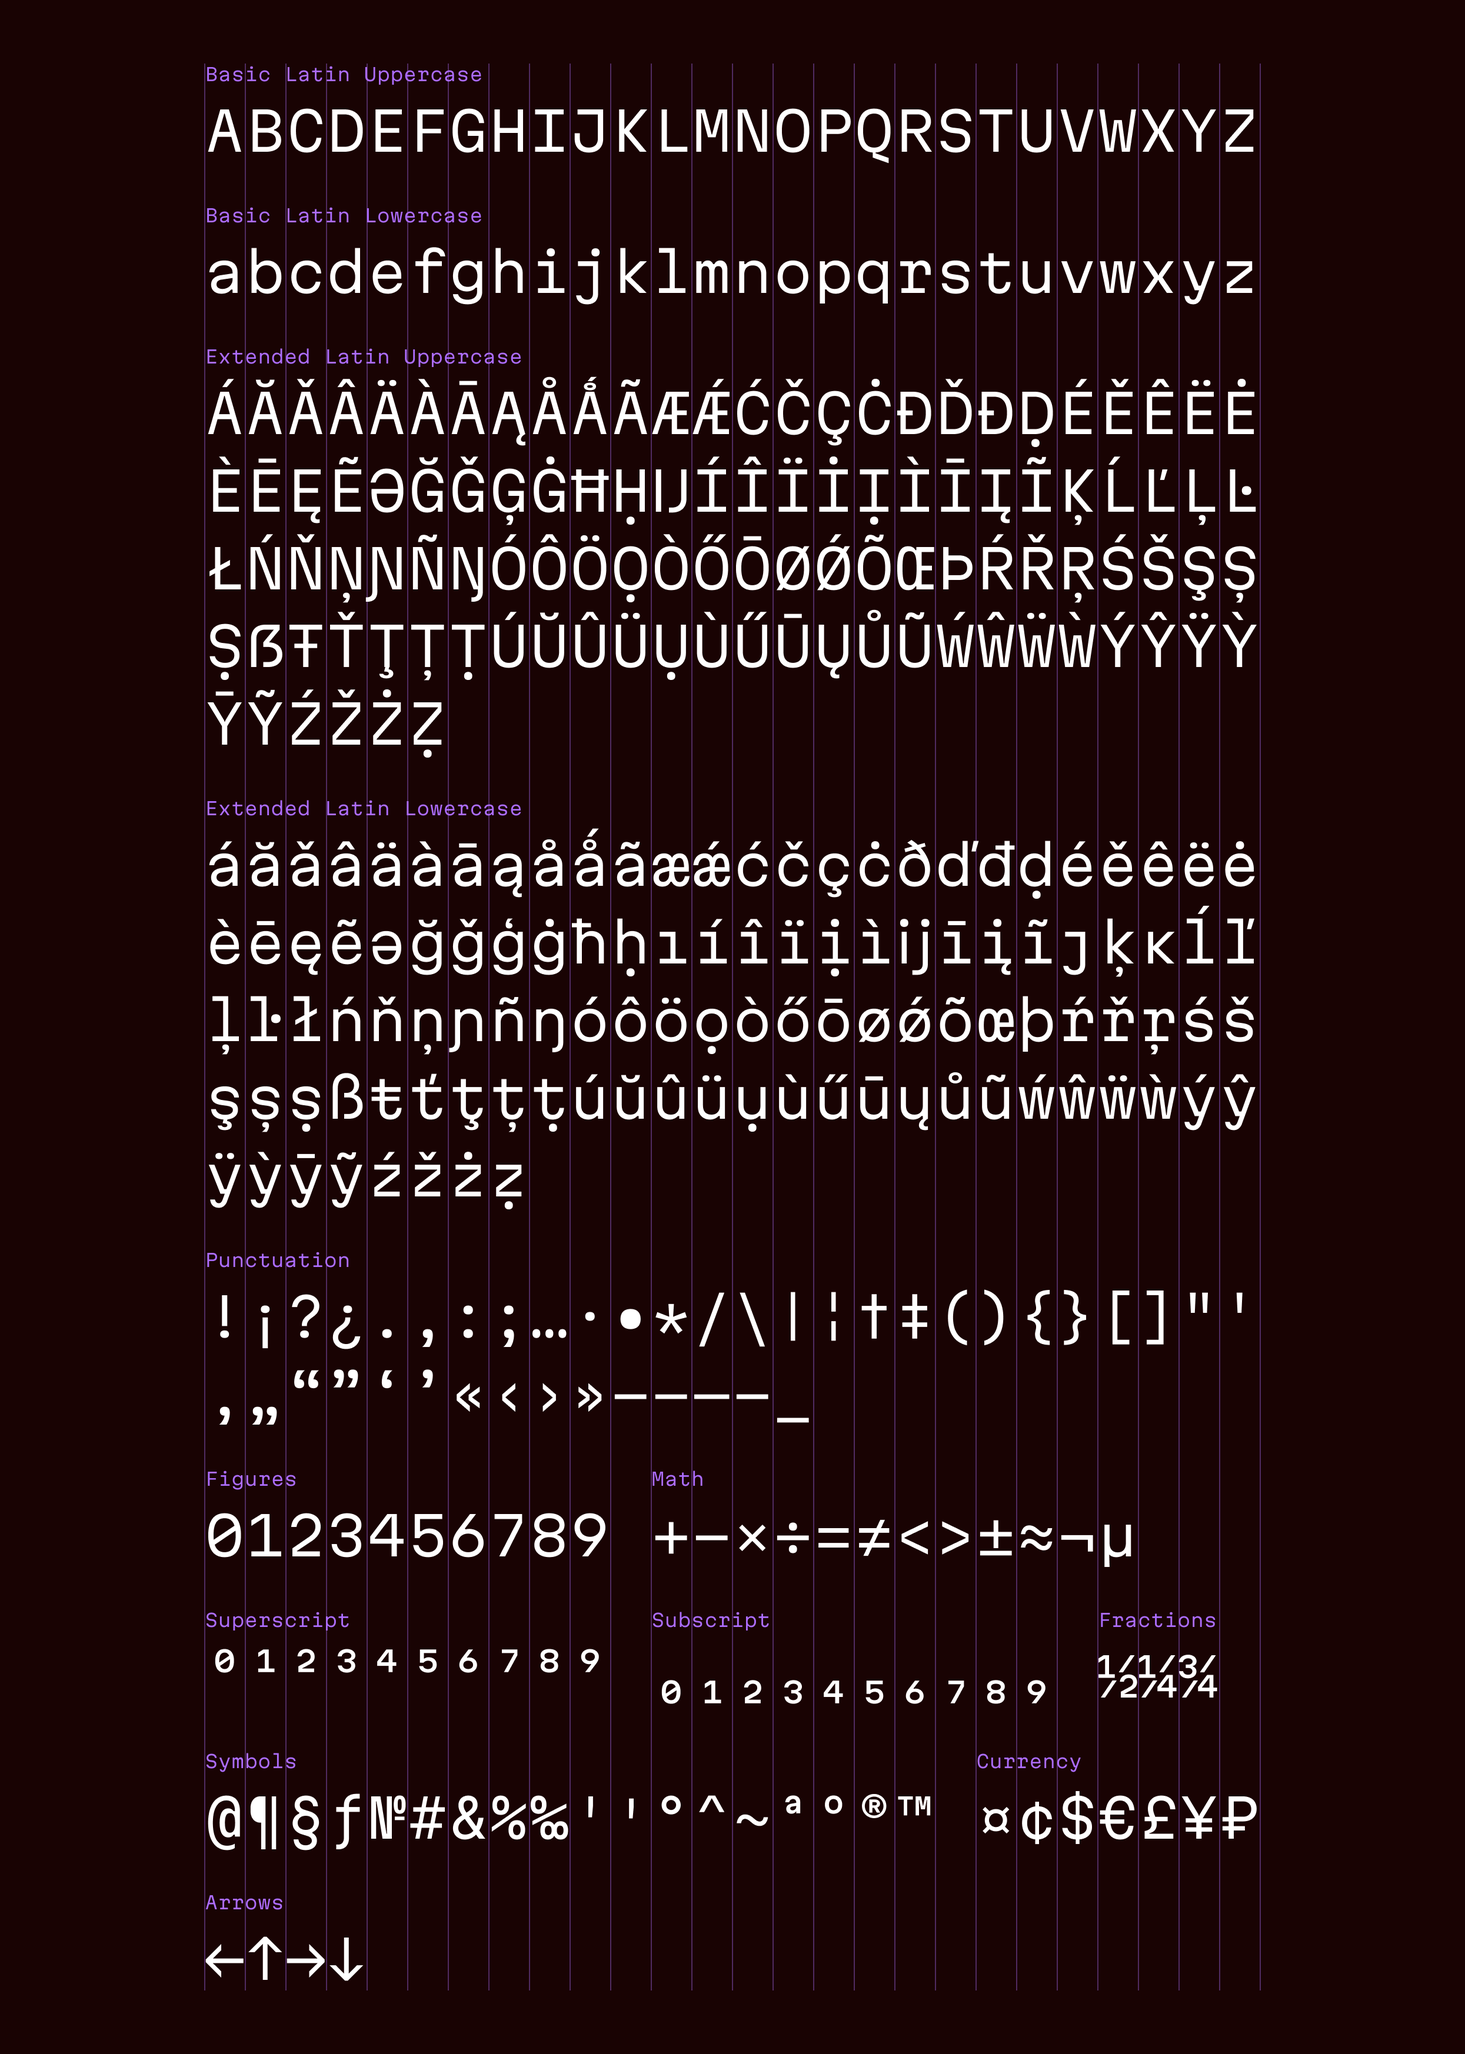
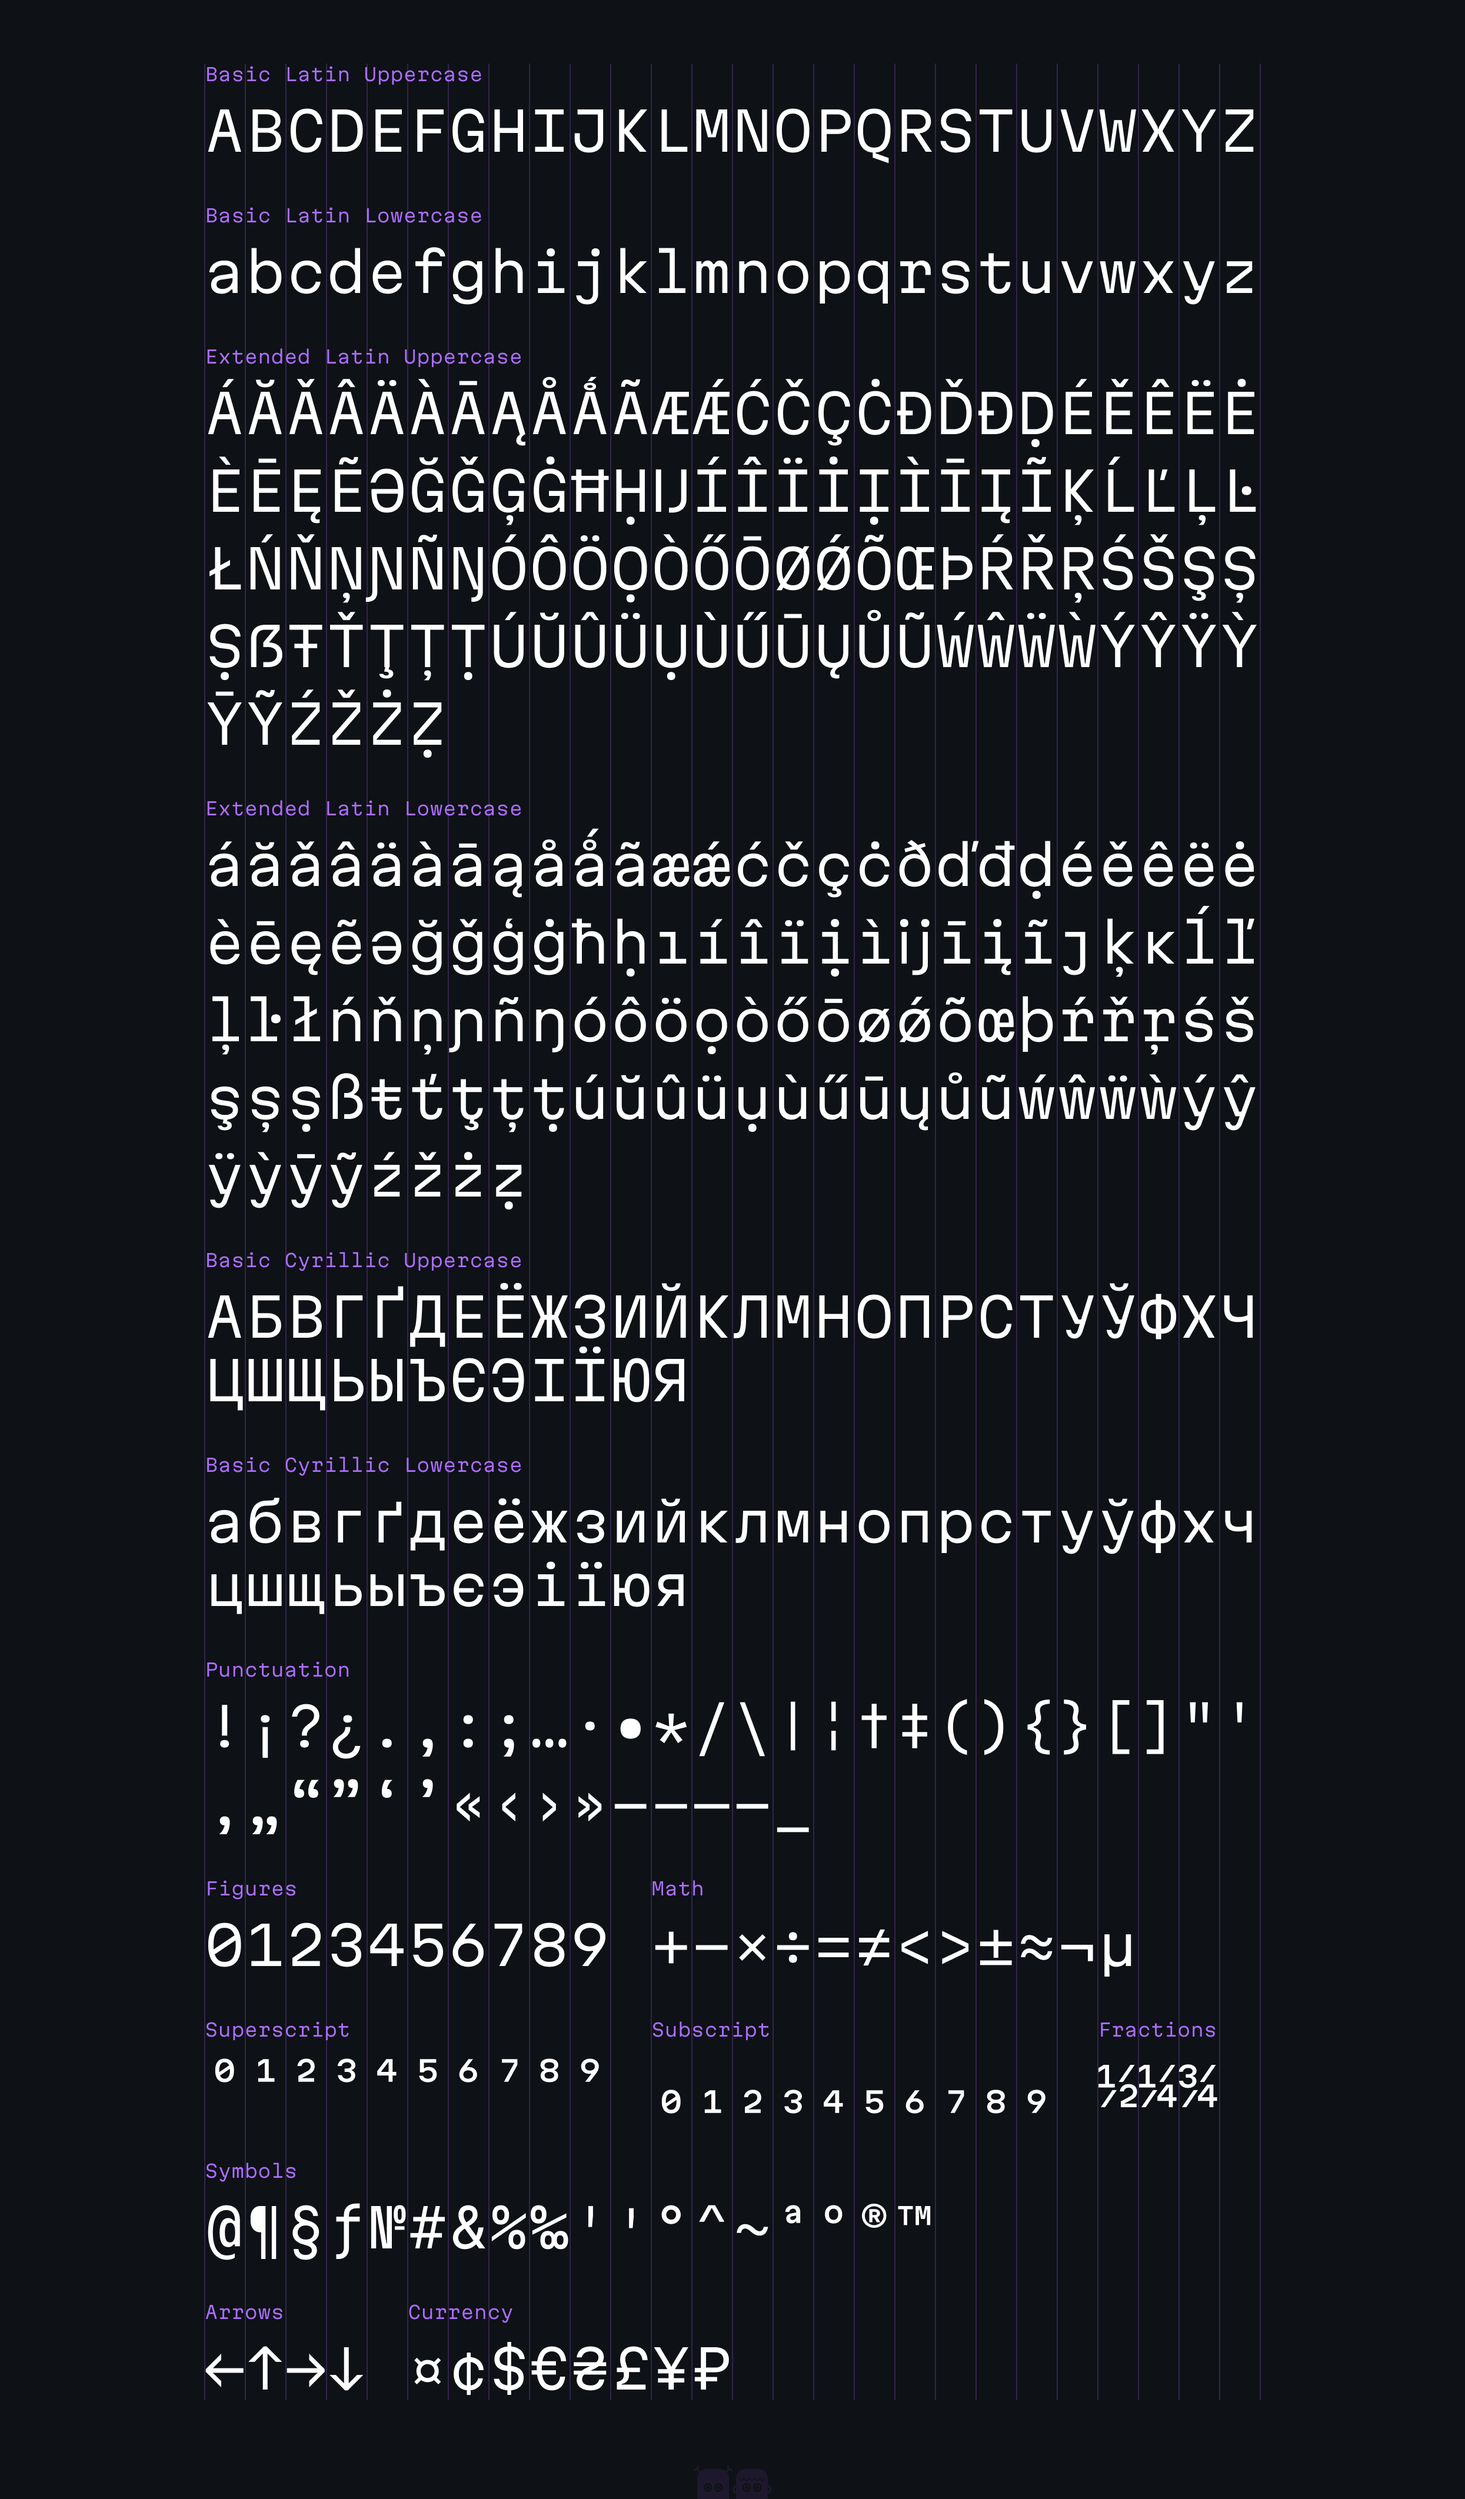
v1.0.0

Changed region(s): [[0.1237, 0.0312, 0.8659, 1.0]]

diff --git a/README.md b/README.md
@@ -64,9 +64,9 @@ For the best results use the following pairs of size / line height:
 
 ## Roadmap
 
-* Basic Cyrillic script (WIP, [watch the process](https://twitter.com/romanshamin_en) on Twitter)
 * Coding ligatures (blocked by [Glyphs app bug](https://forum.glyphsapp.com/t/glyphs-crashes-because-of-pos-rule/22838/17))
 * Powerline symbols
+* Cyrillic script for Bulgarian, Serbian, and Macedonian
 * Italics
 
 ## Support
